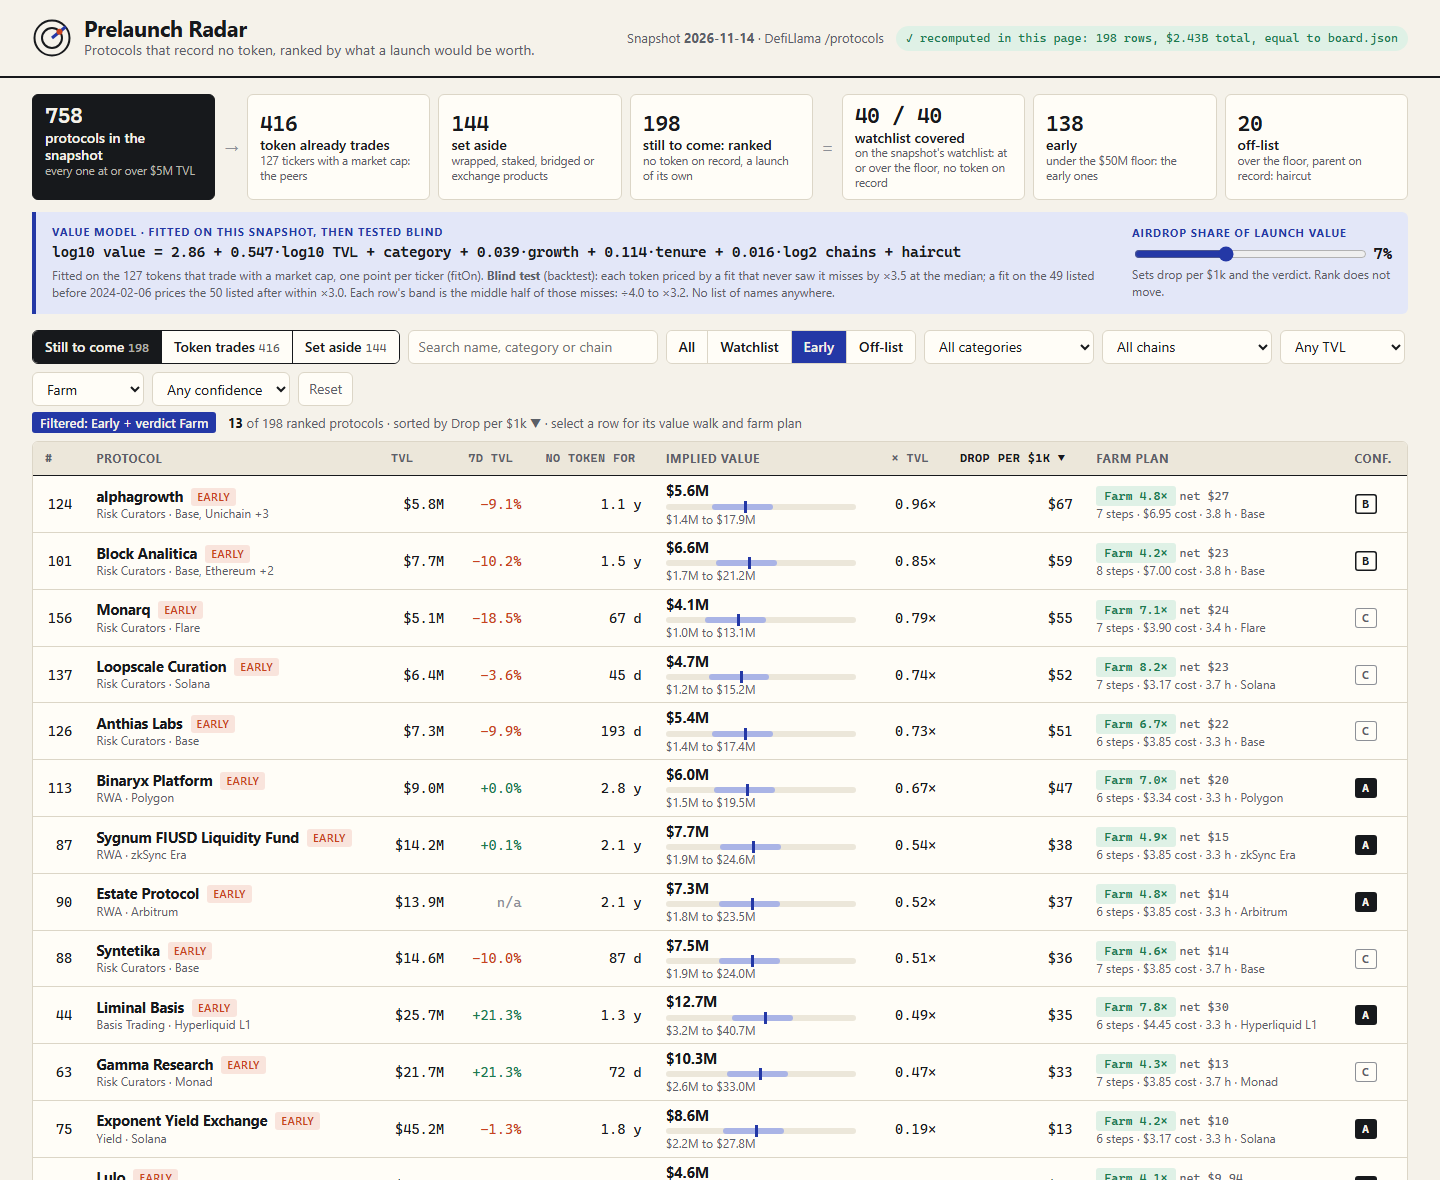
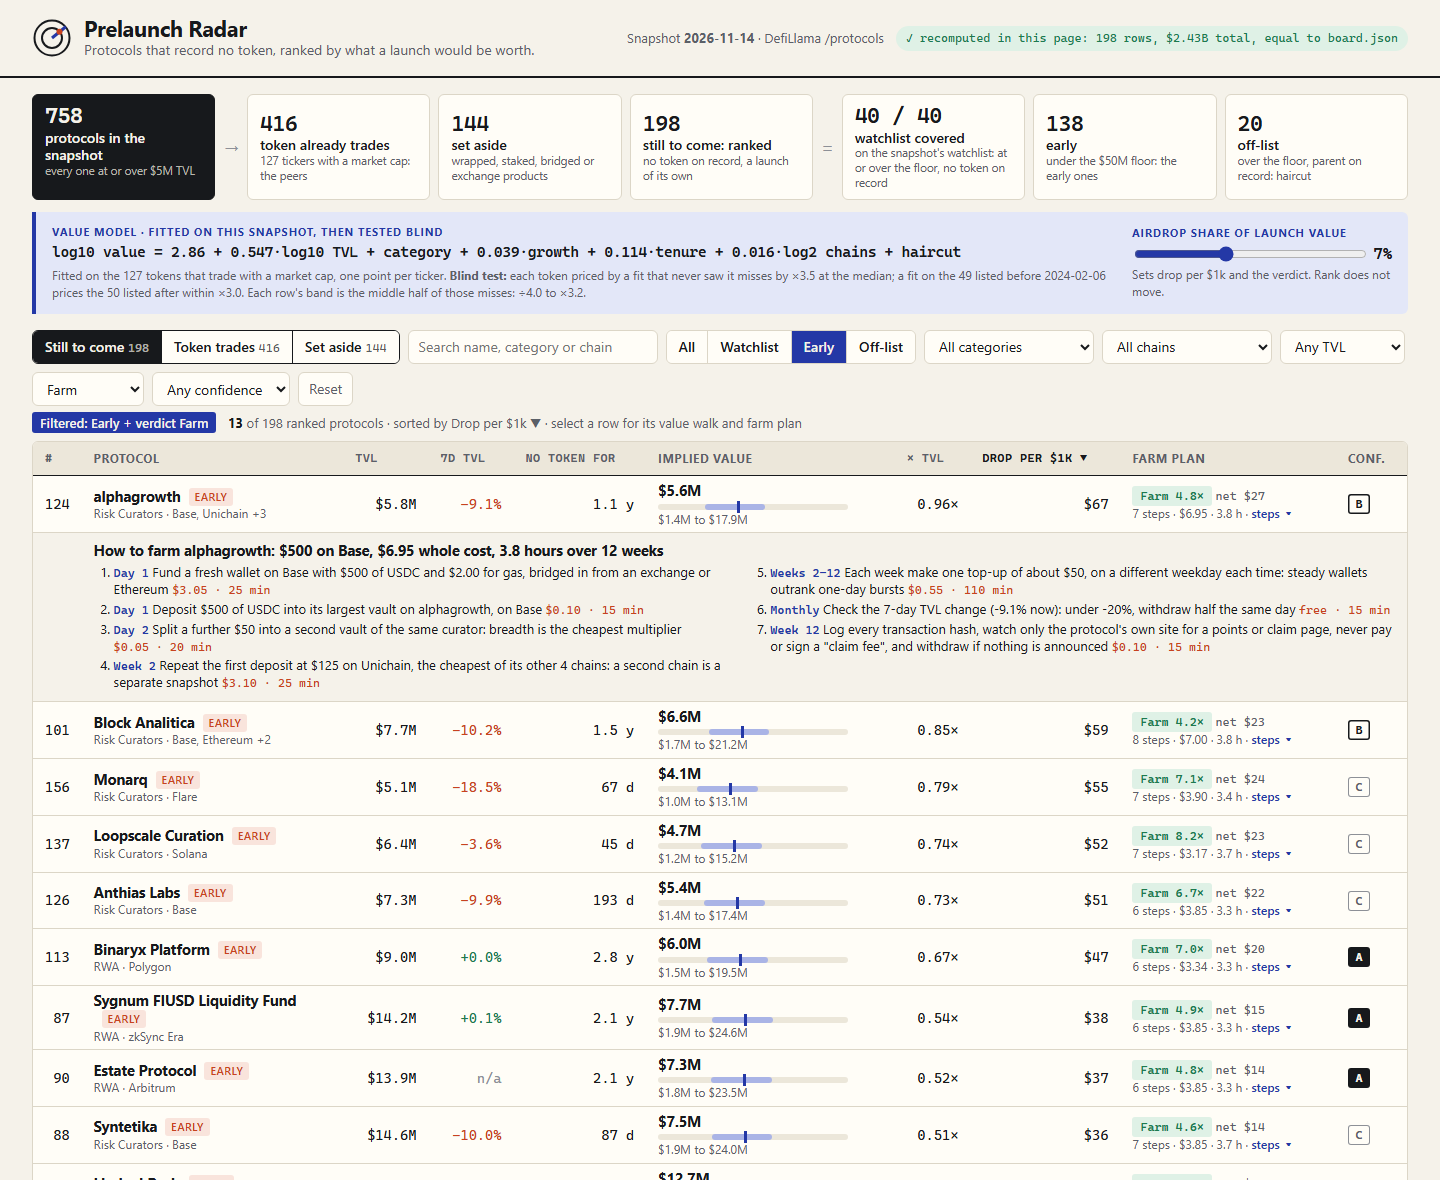
Open a row's farm steps inside the board; trim the source to fit the dossier whole

diff --git a/dashboard/radar.js b/dashboard/radar.js
@@ -4,13 +4,13 @@
   'use strict';
   var M = window.RadarModel, D = window.RADAR_DATA;
   var $ = function (id) { return document.getElementById(id); };
-  if (!M || !D) { $('funnel').innerHTML = '<p class="empty">No data beside the page. Run <code>node main.ts</code>: it writes snapshot-data.js next to index.html.</p>'; return; }
+  if (!M || !D) { $('funnel').innerHTML = '<p class="empty">Run main.ts first: it writes snapshot-data.js beside this page.</p>'; return; }
 
   var radar = M.buildRadar(D), rows = radar.rows, usd = M.usd, T = radar.test;
   var peerKeys = {}; radar.fit.peers.forEach(function (f) { peerKeys[f.key] = f; });
   function fam(p) { return peerKeys[String(p.symbol || p.gecko_id).toUpperCase()]; }
   var bySlug = {}; rows.forEach(function (r) { bySlug[r.slug] = r; });
-  var DEFAULTS = { view: 'ranked', cls: '', q: '', cat: '', chain: '', verdict: '', grade: '', min: '', sort: 'rank', dir: 'asc', share: '7', p: '' };
+  var DEFAULTS = { view: 'ranked', cls: '', q: '', cat: '', chain: '', verdict: '', grade: '', min: '', sort: 'rank', dir: 'asc', share: '7', x: '', p: '' };
   var S = {}, shown = [];
 
   // ---------------------------------------------------------------- small helpers
@@ -52,11 +52,11 @@
       { k: 'tvl', t: 'TVL', num: 1, v: function (r) { return r.tvl; }, h: function (r) { return usd(r.tvl); } },
       { k: 'change7d', t: '7d TVL', num: 1, v: function (r) { return r.change7d; }, h: function (r) { return pct(r.change7d); } },
       { k: 'days', t: 'No token for', num: 1, v: function (r) { return r.days; }, h: function (r) { return tenure(r.days); } },
-      { k: 'value', t: 'Implied value', tip: 'What the launch would be worth: the peer curve at its TVL, times category, growth, tenure, breadth and haircut. The bar is the band the blind test earned, on a log scale.', v: function (r) { return r.value; }, h: function (r) { return '<b>' + usd(r.value) + '</b><span class="band"><i style="left:' + scale(r.lo).toFixed(1) + '%;width:' + (scale(r.hi) - scale(r.lo)).toFixed(1) + '%"></i><u style="left:' + scale(r.value).toFixed(1) + '%"></u></span><small>' + usd(r.lo) + ' to ' + usd(r.hi) + '</small>'; } },
+      { k: 'value', t: 'Implied value', tip: 'The fitted model at this protocol\'s figures. The bar is the band the blind test earned, log scale.',v: function (r) { return r.value; }, h: function (r) { return '<b>' + usd(r.value) + '</b><span class="band"><i style="left:' + scale(r.lo).toFixed(1) + '%;width:' + (scale(r.hi) - scale(r.lo)).toFixed(1) + '%"></i><u style="left:' + scale(r.value).toFixed(1) + '%"></u></span><small>' + usd(r.lo) + ' to ' + usd(r.hi) + '</small>'; } },
       { k: 'multiple', t: '× TVL', num: 1, v: function (r) { return r.multiple; }, h: function (r) { return times(r.multiple); } },
       { k: 'perK', t: 'Drop per $1k', num: 1, tip: 'Implied value × the airdrop share, split pro rata over TVL, for $1,000 deposited.', v: function (r) { return r.perK; }, h: function (r) { return usd(farm(r).perK); } },
-      { k: 'edge', t: 'Farm plan', tip: 'Modelled drop ÷ the plan\'s whole cost. Farm: 3× or more and still covered at the band\'s low end. Marginal: covered. Skip: not.', v: function (r) { return r.plan.edge; }, h: function (r) { var f = farm(r); return '<span class="verdict ' + f.verdict + '">' + f.verdict + ' ' + times(f.edge) + '</span> <span class="net">net ' + usd(f.net) + '</span><small>' + r.plan.steps.length + ' steps · ' + usd(r.plan.cost) + ' cost · ' + r.plan.hours.toFixed(1) + ' h · ' + esc(r.plan.chain) + '</small>'; } },
-      { k: 'conf', t: 'Conf.', tip: 'How much of the estimate rests on data: same-category peers, a growth figure, a listing date, tenure.', v: function (r) { return r.conf; }, h: function (r) { return '<span class="grade ' + r.grade + '">' + r.grade + '</span>'; } }
+      { k: 'edge', t: 'Farm plan', tip: 'Modelled drop ÷ the plan\'s whole cost. Farm: 3× or more and still covered at the band\'s low end. Marginal: covered. Skip: not.', v: function (r) { return r.plan.edge; }, h: function (r) { var f = farm(r); return '<span class="verdict ' + f.verdict + '">' + f.verdict + ' ' + times(f.edge) + '</span> <span class="net">net ' + usd(f.net) + '</span><small>' + r.plan.steps.length + ' steps · ' + usd(r.plan.cost) + ' · ' + r.plan.hours.toFixed(1) + ' h · <button type="button" class="more" data-x="' + esc(r.slug) + '">steps ▾</button></small>'; } },
+      { k: 'conf', t: 'Conf.', v: function (r) { return r.conf; }, h: function (r) { return '<span class="grade ' + r.grade + '">' + r.grade + '</span>'; } }
     ],
     trading: [
       { k: 'name', t: 'Protocol', v: function (p) { return p.name.toLowerCase(); }, h: function (p) { return '<b>' + esc(p.name) + '</b><span class="tag live">' + esc(p.symbol || p.gecko_id) + ' trades</span><small>' + esc(p.category || 'Uncategorised') + ' · ' + chainsShort(p.chains, 2) + '</small>'; } },
@@ -113,7 +113,7 @@
       cell('ranked', 'offlist', n('offlist'), 'off-list', 'over the floor, parent on record: haircut');
     var f = radar.fit, sign = function (v) { return (v < 0 ? ' − ' : ' + ') + Math.abs(v).toFixed(3); };
     $('modelbar').innerHTML = '<div class="formula"><span class="lbl">Value model · fitted on this snapshot, then tested blind</span><code>log10 value = ' + f.a.toFixed(2) + ' + ' + f.b.toFixed(3) + '·log10 TVL + category' + sign(f.coef.g.post) + '·growth' + sign(f.coef.s.post) + '·tenure' + sign(f.coef.c.post) + '·log2 chains + haircut</code>' +
-      '<small>Fitted on the ' + f.n + ' tokens that trade with a market cap, one point per ticker (fitOn). <b>Blind test</b> (backtest): each token priced by a fit that never saw it misses by ×' + T.miss.toFixed(1) + ' at the median; a fit on the ' + T.split.train + ' listed before ' + T.split.cut + ' prices the ' + T.split.test + ' listed after within ×' + T.split.miss.toFixed(1) + '. Each row\'s band is the middle half of those misses: ÷' + Math.pow(10, -T.q25).toFixed(1) + ' to ×' + Math.pow(10, T.q75).toFixed(1) + '. No list of names anywhere.</small></div>' +
+      '<small>Fitted on the ' + f.n + ' tokens that trade with a market cap, one point per ticker. <b>Blind test:</b> each token priced by a fit that never saw it misses by ×' + T.miss.toFixed(1) + ' at the median; a fit on the ' + T.split.train + ' listed before ' + T.split.cut + ' prices the ' + T.split.test + ' listed after within ×' + T.split.miss.toFixed(1) + '. Each row\'s band is the middle half of those misses: ÷' + Math.pow(10, -T.q25).toFixed(1) + ' to ×' + Math.pow(10, T.q75).toFixed(1) + '.</small></div>' +
       '<label class="share"><span class="lbl">Airdrop share of launch value</span><input type="range" id="share" min="2" max="15" step="1" value="' + esc(S.share) + '"><output>' + esc(S.share) + '%</output><small>Sets drop per $1k and the verdict. Rank does not move.</small></label>';
   }
 
@@ -148,8 +148,11 @@
       var on = c.k === S.sort || (!cols.some(function (x) { return x.k === S.sort; }) && c === cols[0]);
       return '<th' + (c.num ? ' class="num"' : '') + (on ? ' aria-sort="' + (S.dir === 'asc' ? 'ascending' : 'descending') + '"' : '') + '><button type="button" data-sort="' + c.k + '"' + (c.tip ? ' title="' + esc(c.tip) + '"' : '') + '>' + c.t + (on ? (S.dir === 'asc' ? ' ▲' : ' ▼') : '') + '</button></th>';
     }).join('') + '</tr>';
+    // One row at a time opens its farm steps in the table itself: the first row by default, any row by its "steps" button.
+    var open = S.view !== 'ranked' || S.x === 'none' ? null : S.x || (shown[0] && shown[0].slug);
     $('board').tBodies[0].innerHTML = shown.map(function (x) {
-      return '<tr' + (S.view === 'ranked' ? ' tabindex="0" data-slug="' + esc(x.slug) + '"' + (x.slug === S.p ? ' class="on"' : '') : '') + '>' + cols.map(function (c) { return '<td' + (c.num ? ' class="num"' : '') + '>' + c.h(x) + '</td>'; }).join('') + '</tr>';
+      return '<tr' + (S.view === 'ranked' ? ' tabindex="0" data-slug="' + esc(x.slug) + '"' + (x.slug === S.p ? ' class="on"' : '') : '') + '>' + cols.map(function (c) { return '<td' + (c.num ? ' class="num"' : '') + '>' + c.h(x) + '</td>'; }).join('') + '</tr>' +
+        (x.slug === open ? '<tr class="plan"><td></td><td colspan="' + (cols.length - 1) + '"><b>How to farm ' + esc(x.name) + ': ' + usd(x.plan.size) + ' on ' + esc(x.plan.chain) + ', ' + usd(x.plan.cost) + ' whole cost, ' + x.plan.hours.toFixed(1) + ' hours over ' + x.plan.weeks + ' weeks</b><ol>' + x.plan.steps.map(function (s) { return '<li><i>' + esc(s.when) + '</i> ' + esc(s.what) + ' <em>' + (s.cost > 0 ? usd(s.cost) : 'free') + ' · ' + s.min + ' min</em></li>'; }).join('') + '</ol></td></tr>' : '');
     }).join('');
     $('empty').hidden = shown.length > 0;
     var total = (S.view === 'ranked' ? rows : radar[S.view]).length, col = cols.filter(function (c) { return c.k === S.sort; })[0] || cols[0];
@@ -198,7 +201,7 @@
       '<nav><button type="button" data-step="-1"' + (at > 0 ? '' : ' disabled') + '>← Prev</button><button type="button" data-step="1"' + (at >= 0 && at < shown.length - 1 ? '' : ' disabled') + '>Next →</button><button type="button" class="close" data-act="close">Close ✕</button></nav></header>' +
       '<div class="cols"><section><h3>Implied value</h3><div class="hero"><b>' + usd(r.value) + '</b><span>blind-test band ' + usd(r.lo) + ' to ' + usd(r.hi) + ' · ' + times(r.multiple) + ' TVL · confidence <span class="grade ' + r.grade + '">' + r.grade + '</span> ' + r.conf + '/100</span></div>' +
       '<table class="walk"><thead><tr><th>Step</th><th>From the snapshot</th><th class="num">Factor</th><th></th><th class="num">Running</th></tr></thead><tbody>' + walk + '</tbody></table>' +
-      '<h3>Where it sits among the ' + radar.fit.n + ' traded peers</h3>' + drawScatter(r) + '<p class="legend"><i class="k me"></i>' + esc(r.name) + ' with its band <i class="k same"></i>' + esc(r.category) + ' peers <i class="k peer"></i>other peers <i class="k fit"></i>fitted curve</p>' +
+      '<h3>Where it sits among the ' + radar.fit.n + ' traded peers</h3>' + drawScatter(r) + '<p class="legend">Blue: ' + esc(r.name) + ' with its band · gold: ' + esc(r.category) + ' peers · grey: other peers · dashed: the fitted curve</p>' +
       '<h3>Nearest comparables that trade</h3><table class="comps"><thead><tr><th>Protocol</th><th>Category</th><th class="num">TVL</th><th class="num">Market cap</th><th class="num">Mcap ÷ TVL</th></tr></thead><tbody>' + comps + '</tbody></table></section>' +
       '<section><h3>Farm plan <span class="verdict ' + f.verdict + '">' + f.verdict + ' ' + times(f.edge) + '</span></h3>' +
       '<div class="tiles"><div><b>' + usd(pl.size) + '</b><span>capital, on ' + esc(pl.chain) + '</span></div><div><b>' + usd(pl.cost) + '</b><span>whole cost: ' + usd(pl.gas) + ' gas' + (pl.carry ? ' + ' + usd(pl.carry) + ' idle cash' : ', deposit keeps earning') + '</span></div><div><b>' + pl.hours.toFixed(1) + ' h</b><span>over ' + pl.weeks + ' weeks</span></div><div><b>' + usd(f.drop) + '</b><span>modelled drop at ' + esc(S.share) + '% share; ' + usd(f.low) + ' at the band\'s low end</span></div><div class="' + (f.net >= 0 ? 'gain' : 'loss') + '"><b>' + usd(f.net) + '</b><span>net of cost</span></div></div>' +
@@ -213,11 +216,12 @@
   // ---------------------------------------------------------------- wiring
   function render() { renderFrame(); renderControls(); renderBoard(); renderDetail(); }
   document.addEventListener('click', function (e) {
-    var t = e.target.closest('[data-sort],[data-view],[data-cls],[data-act],[data-step],tr[data-slug]');
+    var t = e.target.closest('[data-x],[data-sort],[data-view],[data-cls],[data-act],[data-step],tr[data-slug]');
     if (e.target.id === 'scrim') return set({ p: '' });
     if (!t) return;
     var d = t.dataset;
-    if (d.sort) set(S.sort === d.sort ? { dir: S.dir === 'asc' ? 'desc' : 'asc' } : { sort: d.sort, dir: d.sort === 'rank' || d.sort === 'name' || d.sort === 'why' ? 'asc' : 'desc' });
+    if (d.x) set({ x: t.closest('tr').nextElementSibling && t.closest('tr').nextElementSibling.className === 'plan' ? 'none' : d.x });
+    else if (d.sort) set(S.sort === d.sort ? { dir: S.dir === 'asc' ? 'desc' : 'asc' } : { sort: d.sort, dir: d.sort === 'rank' || d.sort === 'name' || d.sort === 'why' ? 'asc' : 'desc' });
     else if (d.view) set({ view: d.view, cls: d.cls, cat: '', chain: '', verdict: '', grade: '', sort: d.view === 'ranked' ? 'rank' : 'tvl', dir: d.view === 'ranked' ? 'asc' : 'desc', p: '' });
     else if (d.cls != null) set({ cls: d.cls });
     else if (d.act === 'reset') { location.hash = ''; readHash(); render(); }
@@ -234,7 +238,6 @@
   document.addEventListener('keydown', function (e) {
     if (e.key === 'Escape' && S.p) set({ p: '' });
     else if (e.key === 'Enter' && e.target.dataset && e.target.dataset.slug) set({ p: e.target.dataset.slug });
-    else if (S.p && (e.key === 'ArrowLeft' || e.key === 'ArrowRight')) { var n = shown[shown.indexOf(bySlug[S.p]) + (e.key === 'ArrowLeft' ? -1 : 1)]; if (n) set({ p: n.slug }); }
   });
   window.addEventListener('hashchange', function () { readHash(); render(); });
   readHash(); render();

diff --git a/dashboard/radar.css b/dashboard/radar.css
@@ -101,6 +101,12 @@ table { width: 100%; border-collapse: collapse; }
 .grade.A { background: var(--ink); color: var(--paper); }
 .grade.B { box-shadow: inset 0 0 0 1.5px var(--ink); }
 .grade.C { box-shadow: inset 0 0 0 1px var(--faint); color: var(--soft); }
+.more { border: 0; padding: 0; background: none; color: var(--blue); font-weight: 600; }
+#board .plan td { background: var(--paper); padding: 8px 12px 10px; font-size: 13px; }
+.plan ol { margin: 4px 0 0; padding-left: 20px; columns: 2; column-gap: 32px; }
+.plan li { break-inside: avoid; margin-bottom: 3px; }
+.plan i { font: 600 12px var(--mono); color: var(--blue); }
+.plan em { font: 12px var(--mono); color: var(--red); white-space: nowrap; }
 .empty { padding: 32px; text-align: center; color: var(--soft); }
 .foot { margin-top: 12px; color: var(--soft); font-size: 12px; max-width: 900px; }
 
@@ -142,11 +148,6 @@ h3 .verdict { margin-left: 8px; font-size: 13px; letter-spacing: 0; text-transfo
 .scatter .whisk { stroke: var(--blue); stroke-width: 2; }
 .scatter .me { fill: var(--blue); stroke: var(--card); stroke-width: 2; }
 .legend { margin-top: 4px; font-size: 12px; color: var(--soft); }
-.legend .k { display: inline-block; width: 10px; height: 10px; margin: 0 4px 0 12px; border-radius: 50%; background: #b5b1a4; }
-.legend .k:first-child { margin-left: 0; }
-.legend .k.me { background: var(--blue); }
-.legend .k.same { background: var(--gold); }
-.legend .k.fit { height: 0; border-radius: 0; border-top: 2px dashed var(--ink); width: 16px; vertical-align: 4px; background: none; }
 .tiles { display: grid; grid-template-columns: repeat(5, 1fr); gap: 8px; }
 .tiles .gain b { color: var(--green); }
 .tiles .loss b { color: var(--red); }
@@ -168,7 +169,4 @@ h3 .verdict { margin-left: 8px; font-size: 13px; letter-spacing: 0; text-transfo
 .flags li::marker { color: var(--red); }
 .flags .none { color: var(--soft); }
 
-@media (max-width: 1000px) {
-  .top, .modelbar, .funnel { flex-direction: column; align-items: stretch; }
-  .cols { grid-template-columns: 1fr; }
-}
+#board td small, .verdict, .net { white-space: nowrap; }

diff --git a/main.ts b/main.ts
@@ -98,8 +98,8 @@ const dataJs =
   '// derived and nothing ranked. model.js (buildRadar) turns them into the board in the browser; board_check is\n' +
   '// what board.json holds, and the page shows whether its own run matches. One protocol a line.\n' +
   `window.RADAR_DATA = ${JSON.stringify(head)};\n` +
-  `window.RADAR_DATA.watchlist = ${JSON.stringify(snapshot.watchlist)};\n` +
-  'window.RADAR_DATA.protocols = [\n' + snapshot.protocols.map((r) => JSON.stringify(r)).join(',\n') + '\n];\n';
+  'window.RADAR_DATA.protocols = [\n' + snapshot.protocols.map((r) => JSON.stringify(r)).join(',\n') + '\n];\n' +
+  `window.RADAR_DATA.watchlist = ${JSON.stringify(snapshot.watchlist)};\n`;
 
 mkdirSync(out, { recursive: true });
 writeFileSync(join(out, 'board.json'), `${JSON.stringify({ model: 'prelaunch-radar/1', as_of: snapshot.as_of, fit: { intercept: radar.fit.a, slope: radar.fit.b, sigma: radar.fit.sigma, token_families: radar.fit.n, coefficients: radar.fit.coef }, blind_test: { leave_one_out_median_miss_x: radar.test.miss, band_log10: [radar.test.q25, radar.test.q75], within_3x: radar.test.within3, time_split: radar.test.split }, rows })}\n`);
